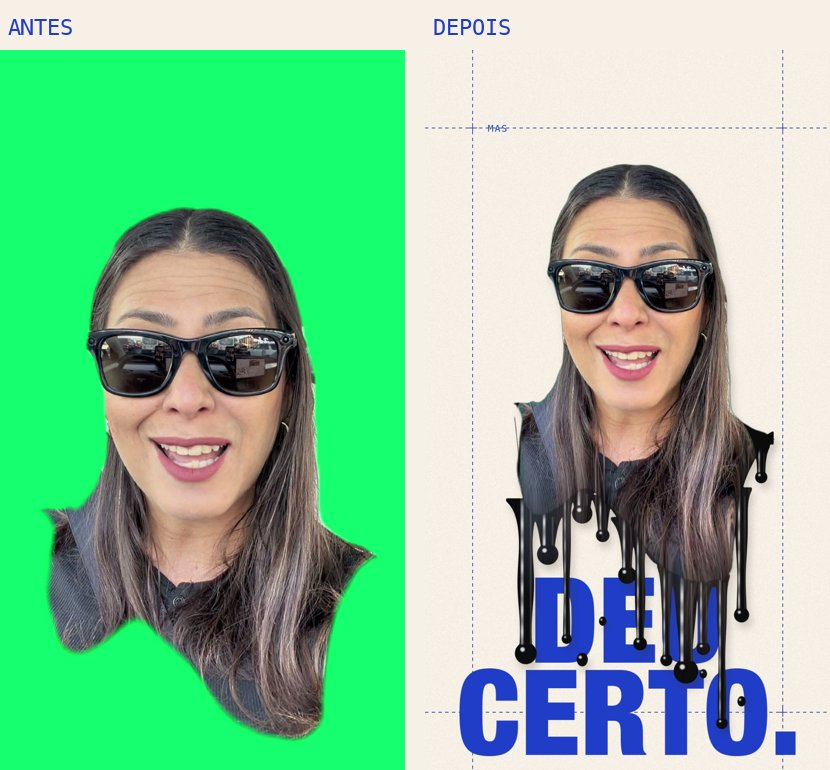
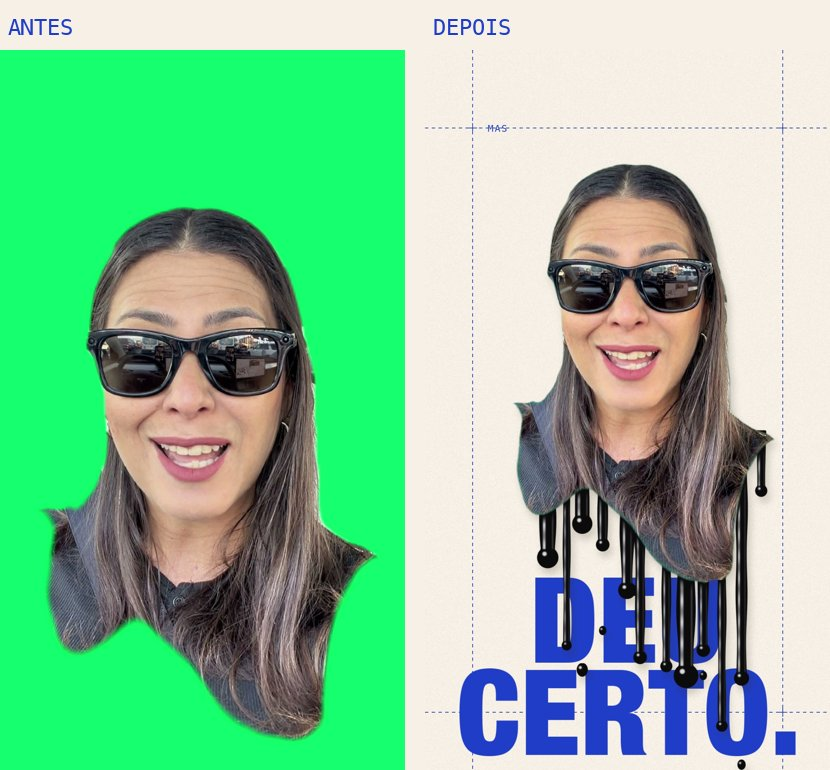
colagem-derretendo: pingos atrás da pessoa (padrão) e modo escorre

diff --git a/edicao-de-video/colagem-derretendo/scripts/tinta.py b/edicao-de-video/colagem-derretendo/scripts/tinta.py
@@ -11,8 +11,11 @@ def suaviza1d(v, k):
 
 
 class Tinta:
-    def __init__(self, escala=1.0, seed=7, n=13, comprimento=1.0):
-        """escala: tamanho da pessoa na gravação (1 = rosto com ~590 px de largura num quadro 1080x1920)."""
+    def __init__(self, escala=1.0, seed=7, n=13, comprimento=1.0, modo="atras"):
+        """escala: tamanho da pessoa na gravação (1 = rosto com ~590 px de largura num quadro 1080x1920).
+        modo "atras": os pingos ficam atrás da pessoa e saem por baixo dela (o começo de cada pingo fica escondido).
+        modo "escorre": a própria imagem cede e escorre para dentro de cada pingo."""
+        self.modo = modo
         rng = np.random.default_rng(seed)
         us = np.linspace(0.04, 0.96, n) + rng.uniform(-0.015, 0.015, n)
         self.e = escala
@@ -39,6 +42,7 @@ class Tinta:
 
     def aplica(self, rgb, al, t, cresce=1.0, H_out=2700):
         """rgb HxWx3 float, al HxW -> (rgb2, al2) com altura H_out e a tinta."""
+        if self.modo == "atras": return self.atras(rgb, al, t, cresce, H_out)
         H, W = al.shape
         b = self.perfil(al)
         out_rgb = np.zeros((H_out, W, 3), np.float32); out_al = np.zeros((H_out, W), np.float32)
@@ -152,6 +156,71 @@ class Tinta:
         # brilho por cima da cor que escorre
         cor = cor_escorre + hl[..., None] * (np.array([0.95, 0.95, 0.97], np.float32) - cor_escorre)
         nova = ink * (1 - out_al)
+        out_rgb = out_rgb * out_al[..., None] + cor * nova[..., None]
+        a2 = np.clip(out_al + nova, 0, 1)
+        out_rgb = out_rgb / np.maximum(a2, 1e-4)[..., None]
+        return out_rgb, a2, ink
+
+    def atras(self, rgb, al, t, cresce=1.0, H_out=2700):
+        """Pingos atrás da pessoa: começam escondidos dentro do busto e só aparecem saindo por baixo dele."""
+        H, W = al.shape
+        b = self.perfil(al)
+        out_rgb = np.zeros((H_out, W, 3), np.float32); out_al = np.zeros((H_out, W), np.float32)
+        out_rgb[:H] = rgb; out_al[:H] = al
+        ok = ~np.isnan(b)
+        if ok.sum() < 10 or cresce <= 0.001: return out_rgb, out_al, np.zeros((H_out, W), np.float32)
+        cols = np.flatnonzero(ok); xa, xb = cols.min(), cols.max()
+        bb = np.where(ok, b, np.inf)
+        e = self.e
+        ink = np.zeros((H_out, W), np.float32); hl = np.zeros((H_out, W), np.float32)
+        for g in self.gotas:
+            x = xa + g["u"] * (xb - xa); w = g["w"]; r = w * 0.66
+            c0, c1 = int(max(0, x - w * 0.8)), int(min(W, x + w * 0.8 + 1))
+            fundo_local = bb[c0:c1]
+            if not np.isfinite(fundo_local).all(): continue
+            ytopo = float(fundo_local.min()) - 40 * e          # começa escondido atrás do busto
+            ysai = float(fundo_local.max())                     # onde passa a aparecer
+            prog = np.clip((cresce - g["atraso"]) / (1 - g["atraso"] + 1e-6), 0, None)
+            L = g["L"] * prog ** 0.8 * (0.9 + 0.1 * np.sin(t * g["vel"] + g["ph"]))
+            yfim = ysai + L
+            if yfim - ytopo < 4: continue
+            x0_, x1_ = int(x - w * 1.2), int(x + w * 1.2) + 1
+            ya, yb_ = int(ytopo), int(min(H_out - 1, yfim + r * 1.2)) + 1
+            YY = np.arange(ya, yb_, dtype=np.float32)[:, None]; XX = np.arange(x0_, x1_, dtype=np.float32)[None, :]
+            dy = YY - ysai
+            hw = w / 2 * (0.82 + 0.18 * np.clip(1 - dy / (L + 1), 0, 1)) * (1 + 0.1 * np.sin(dy / 47 + g["ph"] + t * 0.6))
+            corpo = np.clip(hw - np.abs(XX - x) + 0.5, 0, 1) * (YY <= yfim - r * 0.4)
+            cy = yfim - r * 0.2
+            bulbo = np.clip(r - np.sqrt((XX - x) ** 2 + (YY - cy) ** 2) + 0.5, 0, 1) * (L > r * 0.6)
+            sh = np.maximum(corpo, bulbo)
+            sl = (slice(ya, yb_), slice(max(0, x0_), min(W, x1_))); cx0 = max(0, x0_) - x0_; cx1 = cx0 + (sl[1].stop - sl[1].start)
+            ink[sl] = np.maximum(ink[sl], sh[:, cx0:cx1])
+            fx = x - w * 0.22
+            faixa = np.clip(w * 0.09 - np.abs(XX - fx), 0, 1) * (YY < yfim - r) * (0.5 + 0.35 * np.sin(dy / 23 + g["ph"]) ** 2)
+            faixa = np.maximum(faixa, np.clip(w * 0.05 - np.abs(XX - (x + w * 0.3)), 0, 1) * (YY < yfim - r) * 0.22)
+            ponto = np.clip(r * 0.22 - np.sqrt((XX - (x - r * 0.3)) ** 2 + (YY - (cy - r * 0.35)) ** 2), 0, 1) * 0.9 * (L > r * 0.6)
+            hl[sl] = np.maximum(hl[sl], np.maximum(faixa, ponto)[:, cx0:cx1])
+            per = g["pinga"]; ph = ((t + g["fase_p"]) % per) / per
+            if prog > 0.6 and ph < 0.45 and L > r:
+                q = ph / 0.45; py = cy + r + 20 + 900 * e * q ** 2; pr = r * 0.55
+                if py < H_out - 5:
+                    a0, a1 = int(py - pr - 2), int(min(H_out, py + pr * 1.4 + 2))
+                    YY2 = np.arange(a0, a1, dtype=np.float32)[:, None]
+                    xl, xr = int(max(0, x - pr - 2)), int(min(W, x + pr + 3))
+                    XX2 = np.arange(xl, xr, dtype=np.float32)[None, :]
+                    ee = np.sqrt(((XX2 - x) / pr) ** 2 + ((YY2 - py) / (pr * 1.25)) ** 2)
+                    ink[a0:a1, xl:xr] = np.maximum(ink[a0:a1, xl:xr], np.clip((1 - ee) * pr + 0.5, 0, 1) * (1 - max(0, q - 0.8) / 0.2))
+                    hp = np.clip(pr * 0.3 - np.sqrt((XX2 - (x - pr * 0.35)) ** 2 + (YY2 - (py - pr * 0.4)) ** 2), 0, 1)
+                    hl[a0:a1, xl:xr] = np.maximum(hl[a0:a1, xl:xr], hp * 0.9)
+        im = Image.fromarray((ink * 255).astype(np.uint8)).filter(ImageFilter.GaussianBlur(2.2))
+        ink = np.clip((np.asarray(im).astype(np.float32) / 255 - 0.5) * 3 + 0.5, 0, 1)
+        hl = np.asarray(Image.fromarray((hl * 255).astype(np.uint8)).filter(ImageFilter.GaussianBlur(1.6))).astype(np.float32) / 255
+        # sombra do busto sobre os pingos: o brilho só aparece um pouco abaixo da borda
+        Y = np.arange(H_out, dtype=np.float32)[:, None]
+        hl = hl * ink * np.clip((Y - np.where(ok, b, 0)[None, :] - 6 * e) / (30 * e), 0, 1)
+        cor = TINTA + hl[..., None] * (np.array([0.95, 0.95, 0.97], np.float32) - TINTA)
+        sombra = np.clip(1 - (Y - np.where(ok, b, 0)[None, :]) / (22 * e), 0, 1) * 0.0
+        nova = ink * (1 - out_al)                              # atrás da pessoa
         out_rgb = out_rgb * out_al[..., None] + cor * nova[..., None]
         a2 = np.clip(out_al + nova, 0, 1)
         out_rgb = out_rgb / np.maximum(a2, 1e-4)[..., None]

diff --git a/edicao-de-video/colagem-derretendo/scripts/motor.py b/edicao-de-video/colagem-derretendo/scripts/motor.py
@@ -127,7 +127,7 @@ if "--trecho" not in args and any(it.get("tipo") == "lentes" for it in ROT.get("
     print("aviso: não achei óculos escuros no vídeo; os efeitos de lentes serão ignorados (\"forcar_lentes\": true para usar mesmo assim)")
 FCX, FTOP = INFO.get("rosto_centro_x", 540), INFO.get("rosto_topo", 600)
 TOPO = ROT.get("rosto_y", 0.28) * H                  # onde fica o topo do rosto na tela
-TINTA = Tinta(escala=FW / 590, comprimento=ROT.get("tinta_comprimento", 1.0), seed=ROT.get("semente", 7))
+TINTA = Tinta(escala=FW / 590, comprimento=ROT.get("tinta_comprimento", 1.0), seed=ROT.get("semente", 7), modo=ROT.get("tinta_modo", "atras"))
 H_OUT = 1920 + int(720 * FW / 590 * ROT.get("tinta_comprimento", 1.0))
 
 

diff --git a/edicao-de-video/colagem-derretendo/SKILL.md b/edicao-de-video/colagem-derretendo/SKILL.md
@@ -5,7 +5,7 @@ description: Edita um vídeo falado (Reels/TikTok 9:16) no estilo colagem editor
 
 # Colagem derretendo
 
-A pessoa vira um busto recortado sobre papel bege, com a borda de baixo derretendo: a própria imagem (cabelo, roupa, mãos) cede e escorre para dentro de cada pingo, escurecendo até virar tinta preta brilhante, com bulbo, brilho e pingos caindo. Por cima, uma colagem editorial presa às palavras da fala. Tudo sai de um `roteiro.json` e dois comandos, em Python + ffmpeg, sem app de edição.
+A pessoa vira um busto recortado sobre papel bege, com tinta preta brilhante escorrendo por baixo dele: os pingos ficam atrás da pessoa, começam escondidos dentro do busto e só aparecem saindo pela borda de baixo (escorridos com bulbo, brilho e pingos caindo). Por cima, uma colagem editorial presa às palavras da fala. Tudo sai de um `roteiro.json` e dois comandos, em Python + ffmpeg, sem app de edição.
 
 Requisitos: macOS (o recorte e os olhos usam o Vision do Mac), `ffmpeg`, Python 3 com `pillow numpy faster-whisper`. Rode sempre com `python3 -I`.
 
@@ -88,7 +88,7 @@ Kit de `adesivos` (`itens`): `"camera"`, `"play"`, `"musica"`, `"chat"`, `"email
 
 ## Opções globais do roteiro
 
-`saida` ("final.mp4"), `fundo` ("#F6F0E6", o bege), `acento` ("#1F3DC7", o azul da grade e das palavras), `tamanho` (1.0 = rosto com ~440 px de largura na tela; o corpo nunca passa de ~900 px), `rosto_y` (0.28 = topo do rosto na tela), `busto` (0.95 = onde o corpo é cortado, em alturas de rosto abaixo do queixo; aumente para mostrar mais ombro), `tinta_inicio` (3.2 s até a tinta escorrer toda; 0 = já começa escorrida), `tinta_fim` (true = escorre mais no último 1,8 s), `tinta_comprimento` (1.0), `grade` (true), `saturacao` (1.18), `aproxima_no_fim` (true), `sfx_volume` (1.0), `trilha` (arquivo de música) + `trilha_volume` (0.18; abaixa sozinha quando a pessoa fala), `forcar_lentes`, `processos`.
+`saida` ("final.mp4"), `fundo` ("#F6F0E6", o bege), `acento` ("#1F3DC7", o azul da grade e das palavras), `tamanho` (1.0 = rosto com ~440 px de largura na tela; o corpo nunca passa de ~900 px), `rosto_y` (0.28 = topo do rosto na tela), `busto` (0.95 = onde o corpo é cortado, em alturas de rosto abaixo do queixo; aumente para mostrar mais ombro), `tinta_modo` ("atras" = pingos saem de trás do busto, padrão; "escorre" = a própria imagem cede e escorre para dentro de cada pingo), `tinta_inicio` (3.2 s até a tinta escorrer toda; 0 = já começa escorrida), `tinta_fim` (true = escorre mais no último 1,8 s), `tinta_comprimento` (1.0), `grade` (true), `saturacao` (1.18), `aproxima_no_fim` (true), `sfx_volume` (1.0), `trilha` (arquivo de música) + `trilha_volume` (0.18; abaixa sozinha quando a pessoa fala), `forcar_lentes`, `processos`.
 
 ## Regras que deixam bonito (aprendidas no vídeo de demonstração)
 

diff --git a/edicao-de-video/colagem-derretendo/guia/README.md b/edicao-de-video/colagem-derretendo/guia/README.md
@@ -48,7 +48,7 @@ O Claude converte para 9:16, recorta você do fundo (pelo verde ou pelo recorte 
 #### 02 · Tinta preta derretendo
 > Coloca o fundo bege claro e faz a parte de baixo do meu busto derreter em tinta preta brilhante, começando nos primeiros 3 segundos e escorrendo mais no final.
 
-O corpo é cortado logo abaixo do queixo, numa linha ondulada. A parte de baixo da imagem cede e escorre: o cabelo e a roupa descem para dentro de cada pingo e vão escurecendo até virar tinta preta brilhante, com bulbos e pingos caindo. Mais ombro: *"corta o busto mais embaixo"*. Menos tinta: *"escorridos mais curtos"*.
+O corpo é cortado logo abaixo do queixo, numa linha ondulada, e a tinta escorre por trás do busto: o começo de cada pingo fica escondido atrás de você, então parece que a tinta sai de dentro da imagem, com bulbos, brilho e pingos caindo. Quer que o cabelo e a roupa escorram junto? Peça *"faz a minha imagem escorrer para dentro dos pingos"*. Mais ombro: *"corta o busto mais embaixo"*. Menos tinta: *"escorridos mais curtos"*.
 
 ![](imagens/02-tinta.jpg)
 
